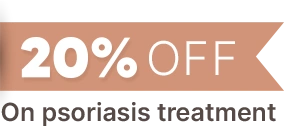
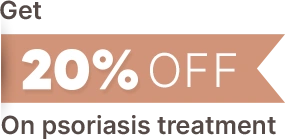
addd

diff --git a/index.html b/index.html
@@ -38,7 +38,7 @@
             <div class="col-3 pl-0 pr-md-5">
               <hr class="bannerhr pl-0"> </div>
             <h2 class="banner-sub-heding-n">Personalised homeopathic treatments to <br class="d-none d-md-block">soothe and manage scalp psoriasis at its root</h2>
-            <img src="images/banner-offer-unit.webp" alt="20% Offer banner" class="img-fluid banner-content-cls-img-offer pb-md-3" width="269" height="116" /> 
+            <img src="images/banner-offer-unit.webp" alt="20% Offer banner" class="img-fluid banner-content-cls-img-offer pb-md-3 pt-3" width="285" height="139" /> 
           </div>
         </div>
       </div>
@@ -144,7 +144,7 @@
                   <div class="test-v-cls">
                     <a class="popup-vimeo" href="https://vimeo.com/manage/videos/909987829"><img src="images/test-play-btn.webp" alt="02 play btn" class="text-play-btn-img img-fluid" width="30" height="30" loading="lazy" />Rajbala</a>
                     <a class="popup-vimeo" href="https://vimeo.com/manage/videos/909987829">
-                      <p class="test-v-para">Witness an inspiring journey against psoriasis! Discover how Dr. Batra's® expert care empowered patient to overcome agony, reclaim their lives, and embrace healing.</p>
+                      <p class="test-v-para">Witness an inspiring journey against psoriasis! Discover how Dr Batra's® expert care empowered patient to overcome agony, reclaim their lives, and embrace healing.</p>
                     </a>
                   </div>
                 </div>
@@ -155,7 +155,7 @@
                   <div class="test-v-cls">
                     <a class="popup-vimeo" href="https://vimeo.com/manage/videos/909987874"><img src="images/test-play-btn.webp" alt="05 play btn" class="text-play-btn-img img-fluid" width="30" height="30" loading="lazy" />Suman Patra</a>
                     <a class="popup-vimeo" href="https://vimeo.com/manage/videos/909987874">
-                      <p class="test-v-para">Psoriasis, an autoimmune skin condition, forms itchy, scaly patches. Discover our effective treatment at Dr. Batra's®. Our trusted homeopathy care relieves symptoms and successfully addresses the condition, bringing relief to many patients.</p>
+                      <p class="test-v-para">Psoriasis, an autoimmune skin condition, forms itchy, scaly patches. Discover our effective treatment at Dr Batra's®. Our trusted homeopathy care relieves symptoms and successfully addresses the condition, bringing relief to many patients.</p>
                     </a>
                   </div>
                 </div>
@@ -210,7 +210,7 @@
                 <div class="item"> <img src="images/types-psoriasis-02.webp" alt="Types Psoriasis 02" class="img-fluid tratment-slider-img-wid" width="350" height="227" loading="lazy" />
                   <div class="types-psoris-box-content align-self-center">
                     <p class="types_main_head">Guttate Psoriasis</p>
-                    <p class="pt-2">Typically found in young people, This type of psoriasis is often triggered by a bacterial infection and appears as small, pinkish-red spots on the skin </p>
+                    <p class="pt-2">Typically found in young people, this type of psoriasis is often triggered by a bacterial infection and appears as small, pinkish-red spots on the skin </p>
                   </div>
                 </div>
                 <div class="item"> <img src="images/types-psoriasis-03.webp" alt="Types Psoriasis 03" class="img-fluid tratment-slider-img-wid" width="350" height="227" loading="lazy" />
@@ -240,7 +240,7 @@
                 <div class="item"> <img src="images/types-psoriasis-07.webp" alt="Types Psoriasis 07" class="img-fluid tratment-slider-img-wid" width="350" height="227" loading="lazy" />
                   <div class="types-psoris-box-content align-self-center">
                     <p class="types_main_head">Scalp Psoriasis</p>
-                    <p class="pt-2"> Scalp Psoriasis presents as red, scaly patches on the scalp, often accompanied by itching and sometimes extending beyond the hairline.It can also cause silvery-white scales, dandruff-like flakes, and hair loss in severe cases </p>
+                    <p class="pt-2"> Scalp Psoriasis presents as red, scaly patches on the scalp, often accompanied by itching and sometimes extending beyond the hairline. It can also cause silvery-white scales, dandruff-like flakes, and hair loss in severe cases </p>
                   </div>
                 </div>
               </div>
@@ -325,8 +325,7 @@
                 <div class="col-md-8">
                   <p class="advance_main_heading"> Wood's Lamp </p>
                   <p> The Wood's Lamp Examination is a cutting-edge diagnostic tool used by our doctors to detect skin issues that are not visible to the naked eye. By emitting a long wave of UV light, this device helps identify underlying causes and diagnose skin conditions with precision. </p>
-                  <p class="advance_main_subheading"> Benefits </p>
-                  <div class="vl-icon-line"> </div>
+                  <p class="advance_main_subheading mb-2"> Benefits </p>
                   <ul class="advance_list_list">
                     <li>Reveals symptoms invisible to the naked eye</li>
                     <li>Detects psoriasis flare-ups before they are visible to the patient</li>
@@ -340,9 +339,8 @@
                 <div class="col-md-4"> <img src="images/DermaHeal.webp" alt="DermaHeal Lamp" class="img-fluid" width="342" height="342" loading="lazy" /> </div>
                 <div class="col-md-8">
                   <p class="advance_main_heading"> Derma Heal </p>
-                  <p> Derma Heal is an advanced light therapy treatment designed to manage scalp psoriasis and other skin conditions. It utilizes therapeutic UVB light to reduce redness, itching, and scaling, helping to prevent the growth of new skin cells. </p>
-                  <p class="advance_main_subheading"> Benefits </p>
-                  <div class="vl-icon-line"> </div>
+                  <p> Derma Heal is an advanced light therapy treatment designed to manage scalp psoriasis and other skin conditions. It utilises therapeutic UVB light to reduce redness, itching, and scaling, helping to prevent the growth of new skin cells. </p>
+                  <p class="advance_main_subheading mb-2"> Benefits </p>
                   <ul class="advance_list_list">
                     <li>Provides an easy and pain-free solution</li>
                     <li>Delivers visible results in just 5 weeks</li>
@@ -432,17 +430,17 @@
               <div id="headingOne">
                 <h2 class="panel-title"><a href="#collapseOne" class="btn btn-link btn-block text-left" type="button" data-toggle="collapse" data-target="#collapseOne" aria-expanded="true" aria-controls="collapseOne">What is Psoriasis?</a></h2></div>
               <div id="collapseOne" class="collapse show" aria-labelledby="headingOne" data-parent="#accordionExample">
-                <div class="panel-body para-faq">Psoriasis is a chronic autoimmune skin condition which causes rapid buildup of skin cells, leading to red, itchy, and scaly patches. These patches can vary in size and severity and may appear on any part of the body.</div>
+                <div class="panel-body para-faq">Psoriasis is a chronic autoimmune skin condition which causes rapid buildup of skin cells, leading to red, itchy, and scaly patches. These patches can vary in size and severity and may appear on any part of the body</div>
               </div>
             </div>
             <div class="faq-box-cls">
               <div id="headingTwo">
                 <h2 class="panel-title"><a href="#collapseTwo" class="btn btn-link btn-block text-left collapsed" type="button" data-toggle="collapse" data-target="#collapseTwo" aria-expanded="true" aria-controls="collapseTwo">What are the main causes of Psoriasis?</a></h2></div>
               <div id="collapseTwo" class="collapse" aria-labelledby="headingTwo" data-parent="#accordionExample">
-                <div class="panel-body para-faq">The exact cause of Psoriasis is not fully understood, but it is believed to be a result of a combination of genetic, immune system, and environmental factors. Triggers can include stress, infections, certain medications, and injuries to the skin.</div>
+                <div class="panel-body para-faq">The exact cause of Psoriasis is not fully understood, but it is believed to be a result of a combination of genetic, immune system, and environmental factors. Triggers can include stress, infections, certain medications, and injuries to the skin</div>
               </div>
             </div>
-            <div class="faq-box-cls">
+            <!-- <div class="faq-box-cls">
               <div id="headingThree">
                 <h2 class="panel-title"><a href="#collapseThree" class="btn btn-link btn-block text-left collapsed" type="button" data-toggle="collapse" data-target="#collapseThree" aria-expanded="true" aria-controls="collapseThree">What are the types of Psoriasis?</a></h2></div>
               <div id="collapseThree" class="collapse" aria-labelledby="headingThree" data-parent="#accordionExample">
@@ -459,19 +457,19 @@
                   </ol>
                 </div>
               </div>
-            </div>
+            </div> -->
             <div class="faq-box-cls">
               <div id="headingFour">
                 <h2 class="panel-title"><a href="#collapseFour" class="btn btn-link btn-block text-left collapsed" type="button" data-toggle="collapse" data-target="#collapseFour" aria-expanded="true" aria-controls="collapseFour">What is the age at which one suffers from Psoriasis?</a></h2></div>
               <div id="collapseFour" class="collapse" aria-labelledby="headingFour" data-parent="#accordionExample">
-                <div class="panel-body para-faq">Psoriasis can develop at any age, but it most commonly appears between the ages of 15 and 35. It affects both genders equally and can occur in people of all races and ethnicities.</div>
+                <div class="panel-body para-faq">Psoriasis can develop at any age, but it most commonly appears between the ages of 15 and 35. It affects both genders equally and can occur in people of all races and ethnicities</div>
               </div>
             </div>
             <div class="faq-box-cls">
               <div id="headingFive">
                 <h2 class="panel-title"><a href="#collapseFive" class="btn btn-link btn-block text-left collapsed" type="button" data-toggle="collapse" data-target="#collapseFive" aria-expanded="true" aria-controls="collapseFive">What are the signs and symptoms of Psoriasis?</a></h2></div>
               <div id="collapseFive" class="collapse" aria-labelledby="headingFive" data-parent="#accordionExample">
-                <div class="panel-body para-faq">Common signs include red patches of skin covered with thick, silvery scales, itching or burning sensations, dry, cracked skin that may bleed, and stiff, swollen joints in psoriatic arthritis.</div>
+                <div class="panel-body para-faq">Common signs include red patches of skin covered with thick, silvery scales, itching or burning sensations, dry, cracked skin that may bleed, and stiff, swollen joints in psoriatic arthritis</div>
               </div>
             </div>
             <div class="faq-box-cls">
@@ -480,35 +478,36 @@
               <div id="collapseSix" class="collapse" aria-labelledby="headingSix" data-parent="#accordionExample">
                 <div class="panel-body para-faq"> Currently, there is no permanent cure for Psoriasis, but several effective treatments can help manage symptoms and provide long-lasting relief. These include:
                   <ol>
-                    <li><strong>Medications: </strong> Topical treatments, oral medications, and biologics reduce inflammation and slow skin cell production.</li>
-                    <li><strong>Phototherapy: </strong> UV light therapy under medical supervision can help alleviate symptoms.</li>
-                    <li><strong>Homeopathy: </strong> A safe and natural approach personalized to manage Psoriasis and improve skin health.</li>
-                    <li><strong>Lifestyle Changes: </strong> A healthy diet, stress management, and avoiding triggers can help control flare-ups.</li>
-                    <li><strong>Moisturizers: </strong> Regular use keeps the skin hydrated, reducing scaling.</li>
-                    <li><strong>Advanced Skin Technology: </strong> Technology like Wood's Lamp examination and Derma Heal treatment offer a comprehensive evaluation and targeted therapy for long-lasting results.</li>
-                  </ol> Connect with us to find the best personalised treatment plan for your condition. </div>
+                    <li><strong>Homeopathy: </strong> A safe and natural approach personalized to manage Psoriasis and improve skin health</li>
+                    <li><strong>Advanced Skin Technology: </strong> Technology like Wood's Lamp examination and Derma Heal treatment offer a comprehensive evaluation and targeted therapy for long-lasting results</li>
+                    <li><strong>Phototherapy: </strong> UV light therapy under medical supervision can help alleviate symptoms</li>
+                    <li><strong>Lifestyle Changes: </strong> A healthy diet, stress management, and avoiding triggers can help control flare-ups</li>
+                    <li><strong>Moisturizers: </strong> Regular use keeps the skin hydrated, reducing scaling</li>
+                    <li><strong>Medications: </strong> Topical treatments, oral medications, and biologics reduce inflammation and slow skin cell production</li>
+                    
+                  </ol> Connect with us to find the best personalised treatment plan for your condition </div>
               </div>
             </div>
             <div class="faq-box-cls">
               <div id="headingSeven">
                 <h2 class="panel-title"><a href="#collapseSeven" class="btn btn-link btn-block text-left collapsed" type="button" data-toggle="collapse" data-target="#collapseSeven" aria-expanded="true" aria-controls="collapseSeven">How does the progression of Psoriasis vary among individuals?</a></h2></div>
               <div id="collapseSeven" class="collapse" aria-labelledby="headingSeven" data-parent="#accordionExample">
-                <div class="panel-body para-faq">Progression varies greatly among individuals and can be influenced by factors such as genetics, overall health, stress, trauma, and response to treatment. While some may experience mild symptoms that come and go, others may have severe and persistent symptoms.</div>
+                <div class="panel-body para-faq">Progression varies greatly among individuals and can be influenced by factors such as genetics, overall health, stress, trauma, and response to treatment. While some may experience mild symptoms that come and go, others may have severe and persistent symptoms</div>
               </div>
             </div>
             <div class="faq-box-cls">
               <div id="headingSeven">
                 <h2 class="panel-title"><a href="#collapseEight" class="btn btn-link btn-block text-left collapsed" type="button" data-toggle="collapse" data-target="#collapseEight" aria-expanded="true" aria-controls="collapseEight">Can Psoriasis spread to others?</a></h2></div>
               <div id="collapseEight" class="collapse" aria-labelledby="headingSeven" data-parent="#accordionExample">
-                <div class="panel-body para-faq">Psoriasis is not contagious and cannot be spread from person to person through physical contact or other means. It is an autoimmune condition caused by internal factors rather than external contagions.</div>
+                <div class="panel-body para-faq">Psoriasis is not contagious and cannot be spread from person to person through physical contact or other means. It is an autoimmune condition caused by internal factors rather than external contagions</div>
               </div>
             </div>
             <div class="faq-box-cls">
               <div id="headingSeven">
                 <h2 class="panel-title"><a href="#collapseNine" class="btn btn-link btn-block text-left collapsed" type="button" data-toggle="collapse" data-target="#collapseNine" aria-expanded="true" aria-controls="collapseNine">Why choose Dr Batra's<sup>®</sup> treatments for treating Psoriasis?</a></h2></div>
               <div id="collapseNine" class="collapse" aria-labelledby="headingSeven" data-parent="#accordionExample">
-                <div class="panel-body para-faq">At Dr Batra's<sup>®</sup>, we prioritize understanding the root cause of Psoriasis and create personalized treatment plans accordingly.
-                  <br> By combining goodness of homeopathy with advanced skin analysis and innovative treatments like Derma Heal, our experienced team of doctors provides personalized care to address your specific needs and concerns. Schedule a consultation to learn more about how we can support you on your journey to Psoriasis free skin. </div>
+                <div class="panel-body para-faq">At Dr Batra's<sup>®</sup>, we prioritise understanding the root cause of Psoriasis and create personalised treatment plans accordingly.
+                   By combining goodness of homeopathy with advanced skin analysis and innovative treatments like Derma Heal, our experienced team of doctors provides personalised care to address your specific needs and concerns. Schedule a consultation to learn more about how we can support you on your journey to Psoriasis free skin </div>
               </div>
             </div>
           </div>
@@ -625,7 +624,7 @@
       nav: !0,
       margin: 0,
       autoplay: !0,
-      autoplayTimeout: 4e3,
+      autoplayTimeout: 8e3,
       smartSpeed: 400,
       navText: ["<img src='images/previmage.webp' alt='02 prev' width='40' height='40'>", "<img src='images/nextimage.webp' alt='02 next' width='40' height='40'>"],
       responsive: {
@@ -657,7 +656,7 @@
       nav: !0,
       margin: 20,
       autoplay: !0,
-      autoplayTimeout: 4e3,
+      autoplayTimeout: 6e3,
       smartSpeed: 400,
       navText: ["<img src='images/previmage.webp' alt='02 prev' width='40' height='40'>", "<img src='images/nextimage.webp' alt='02 next' width='40' height='40'>"],
       responsive: {

diff --git a/css/style-new.css b/css/style-new.css
@@ -453,7 +453,7 @@ hr.bannerhr{width:80px;border:2px solid #554a46}
 .advance_main_heading{font-size:21px;font-weight:500;margin-bottom:5px}
 .advance_main_subheading{font-size:18px;font-weight:500;}
 .advance_list_list li{font-size:16px;padding:10px 5px;color:#212121}
-.advance_list_list{list-style-image:url('../images/list-style.webp');margin-left:0;padding-left:65px}
+.advance_list_list{list-style-image:url('../images/list-style.webp');margin-left:0;padding-left:23px}
 .vl-icon-line{border-left:1px solid #554a46;height:125px;position:absolute;left:3%;margin-left:-3px;bottom:65px}
 #advance_skin_slider .owl-item .item img{-webkit-transition:.3s;-o-transition:.3s;transition:.3s;-webkit-transform:scale(.8);-ms-transform:scale(.8);transform:scale(.8);opacity:1}
 #advance_skin_slider .owl-item.center .item img{-webkit-transform:scale(1.15);-ms-transform:scale(1.15);transform:scale(1.15);opacity:1}
@@ -468,6 +468,6 @@ hr.bannerhr{width:80px;border:2px solid #554a46}
 @media screen and (max-width:992px){
 .advance_main_subheading{font-size:18px;font-weight:500; margin-bottom: 0}
 .vl-icon-line{border-left:0;display:none}
-.advance_list_list{list-style:disc;list-style-image:none;margin-left:0;padding-left:22px}
+.advance_list_list{margin-left:0;padding-left:25px}
 .advance_list_list li{font-size:16px;padding:5px 2px}
 }
